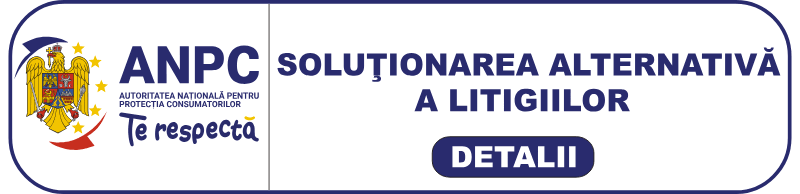
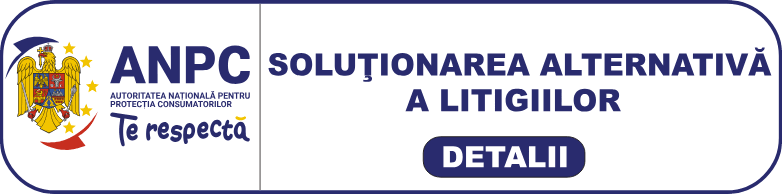
Footer: smaller wordmark, ANPC pictogram without white corners
Claude-Session: https://claude.ai/code/session_01UbDPdupCN9T1aik4exseWh

diff --git a/resources/js/components/AnpcBadge.tsx b/resources/js/components/AnpcBadge.tsx
@@ -1,19 +1,14 @@
 import { asset } from '@/lib/site';
 
-/** Official ANPC "Soluționarea alternativă a litigiilor" pictogram, linking to the ANPC page. */
+/** Official ANPC "Soluționarea alternativă a litigiilor" pictogram (white corners removed), linking to the ANPC page. */
 export function AnpcSalBadge({ className = '' }: { className?: string }) {
     return (
-        <a
-            href="https://anpc.ro/ce-este-sal/"
-            target="_blank"
-            rel="noopener noreferrer"
-            className={`inline-block overflow-hidden rounded-lg transition-opacity hover:opacity-90 ${className}`}
-        >
+        <a href="https://anpc.ro/ce-este-sal/" target="_blank" rel="noopener noreferrer" className={`inline-block transition-opacity hover:opacity-90 ${className}`}>
             <img
                 src={asset('/images/anpc-sal.png')}
                 alt="ANPC — Soluționarea alternativă a litigiilor (detalii)"
                 width={250}
-                height={61}
+                height={62}
                 loading="lazy"
                 decoding="async"
                 className="block h-auto w-[250px]"

diff --git a/resources/js/components/sections/Footer.tsx b/resources/js/components/sections/Footer.tsx
@@ -115,7 +115,7 @@ export function Footer({ onHome }: { onHome: boolean }) {
 
             <p
                 aria-hidden="true"
-                className="text-gold-gradient pointer-events-none pt-4 pb-[3vw] text-center font-display text-[30vw] leading-[0.8] font-medium tracking-[-0.03em] select-none lg:text-[min(26vw,24rem)]"
+                className="text-gold-gradient pointer-events-none pt-2 pb-8 text-center font-display text-[18vw] leading-[0.8] font-medium tracking-[-0.03em] select-none sm:text-[12vw] lg:pb-10 lg:text-[min(9vw,8rem)]"
             >
                 MUV
             </p>
